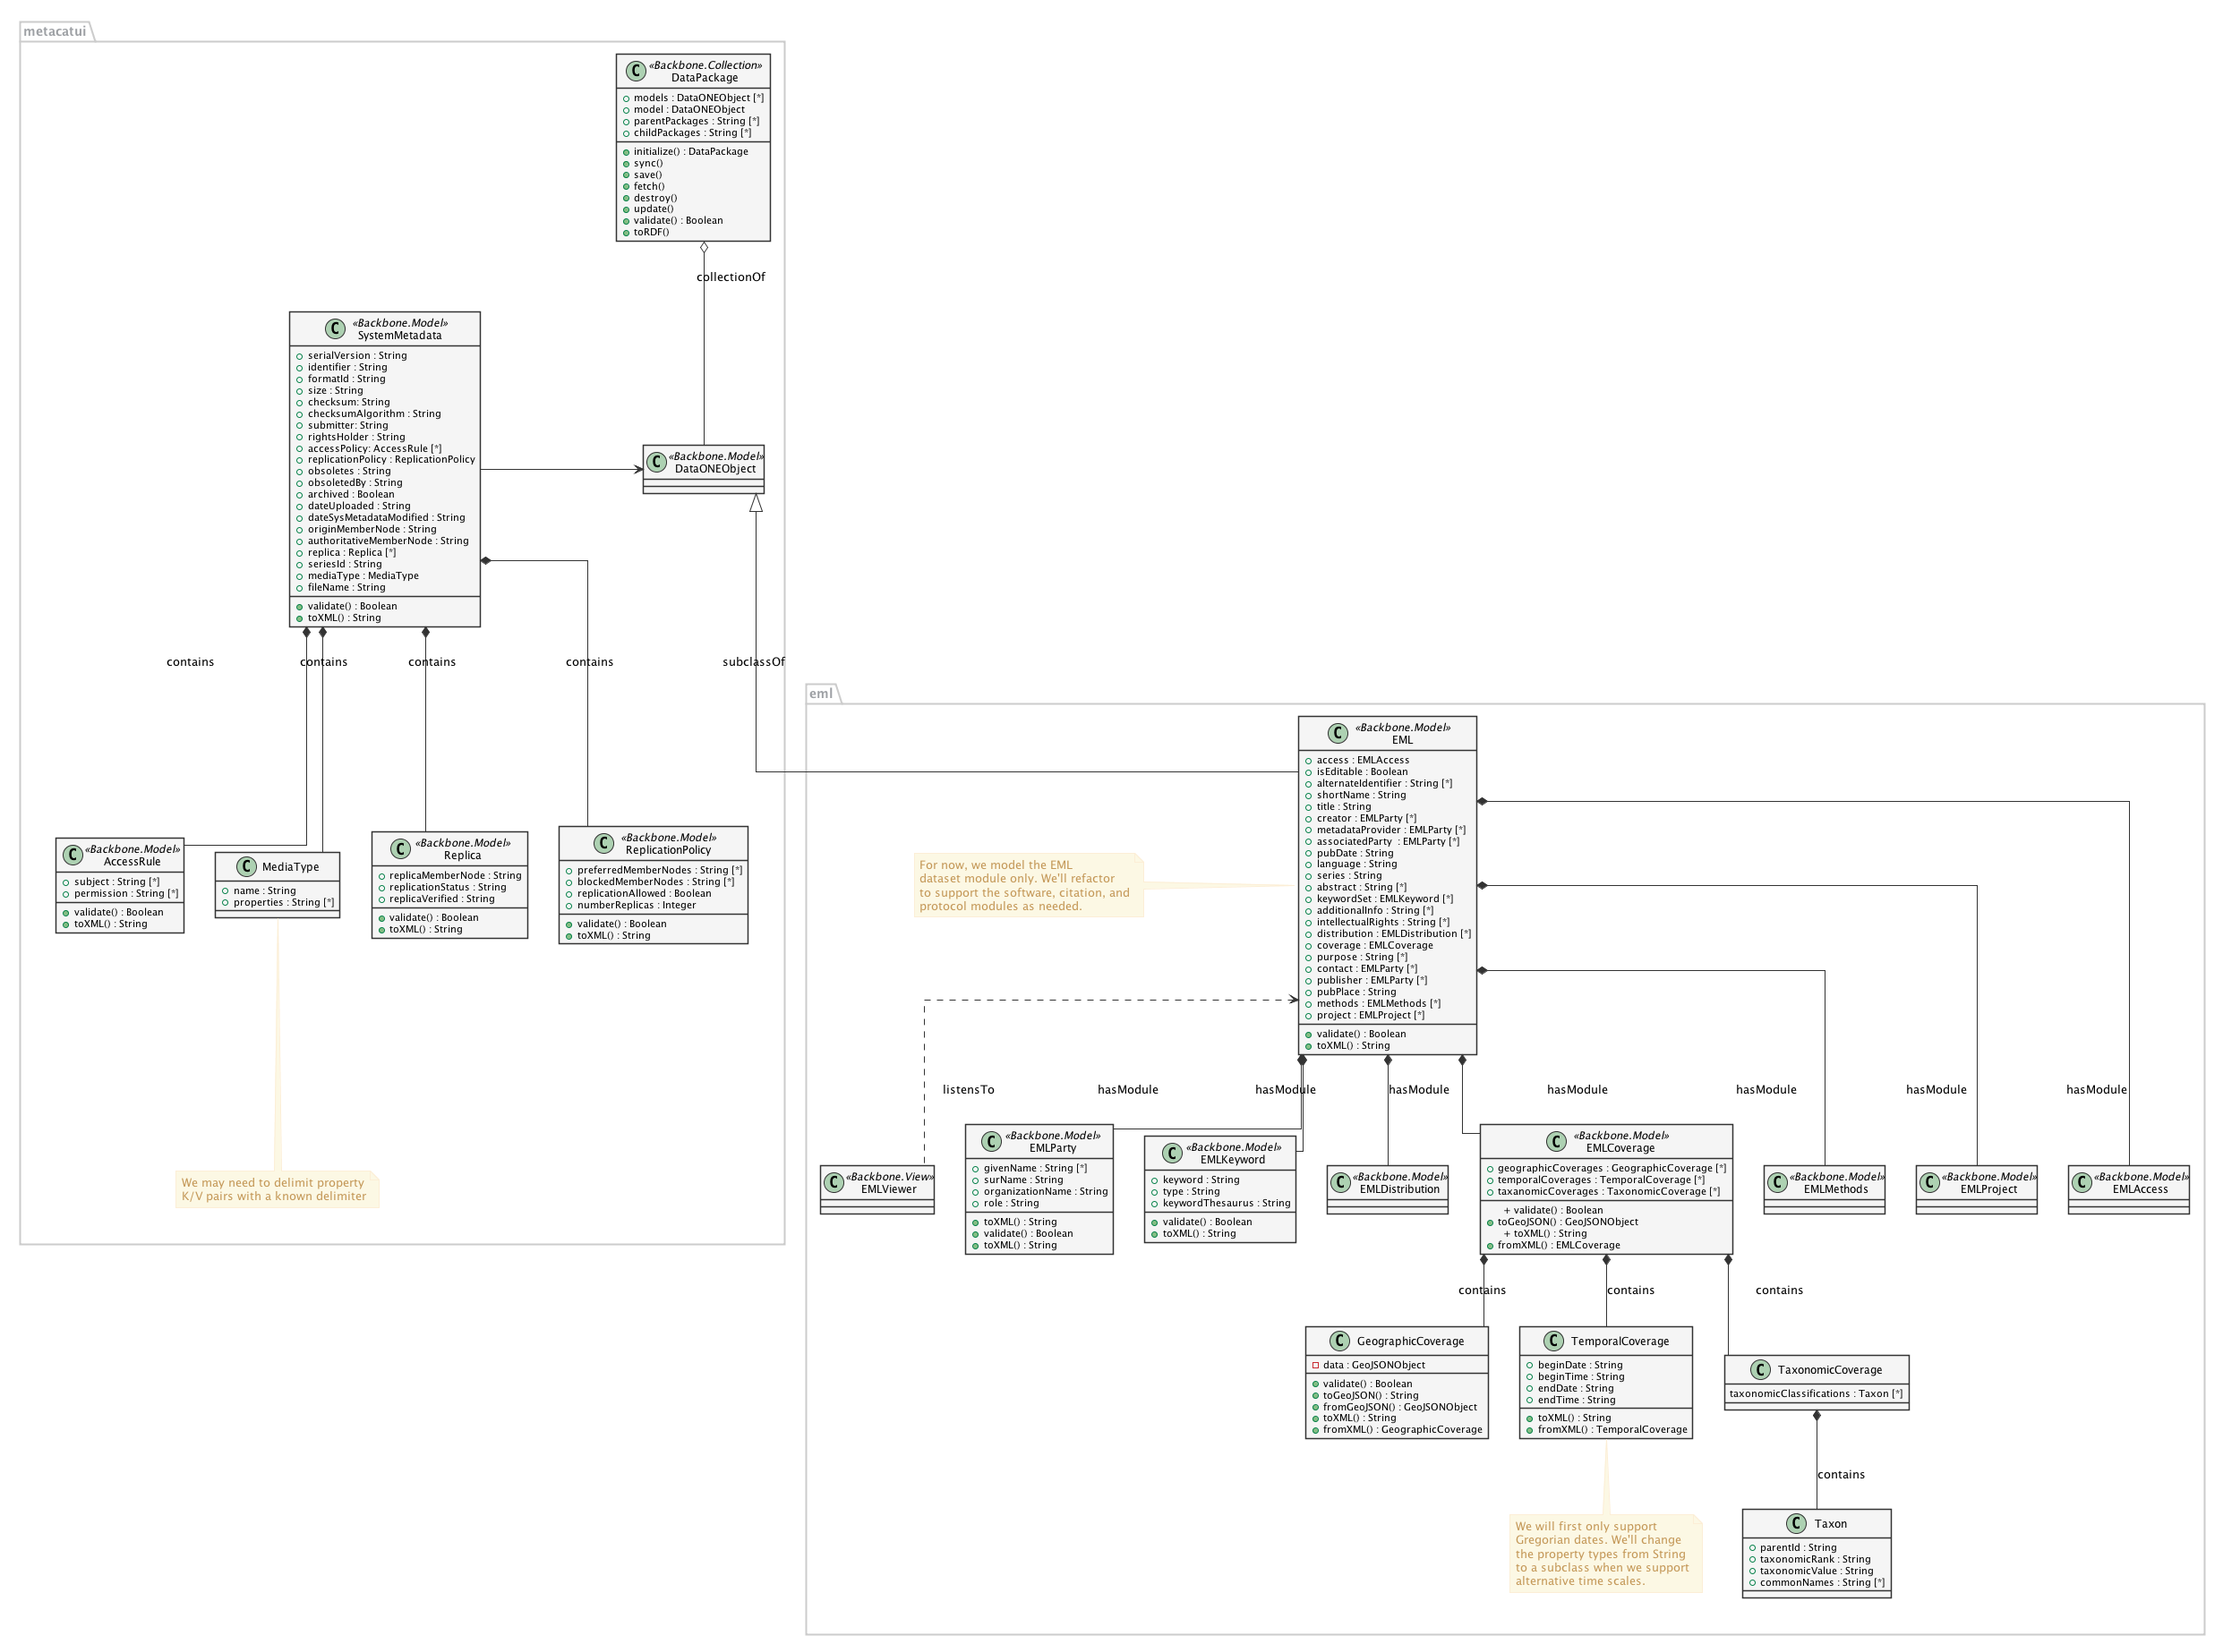
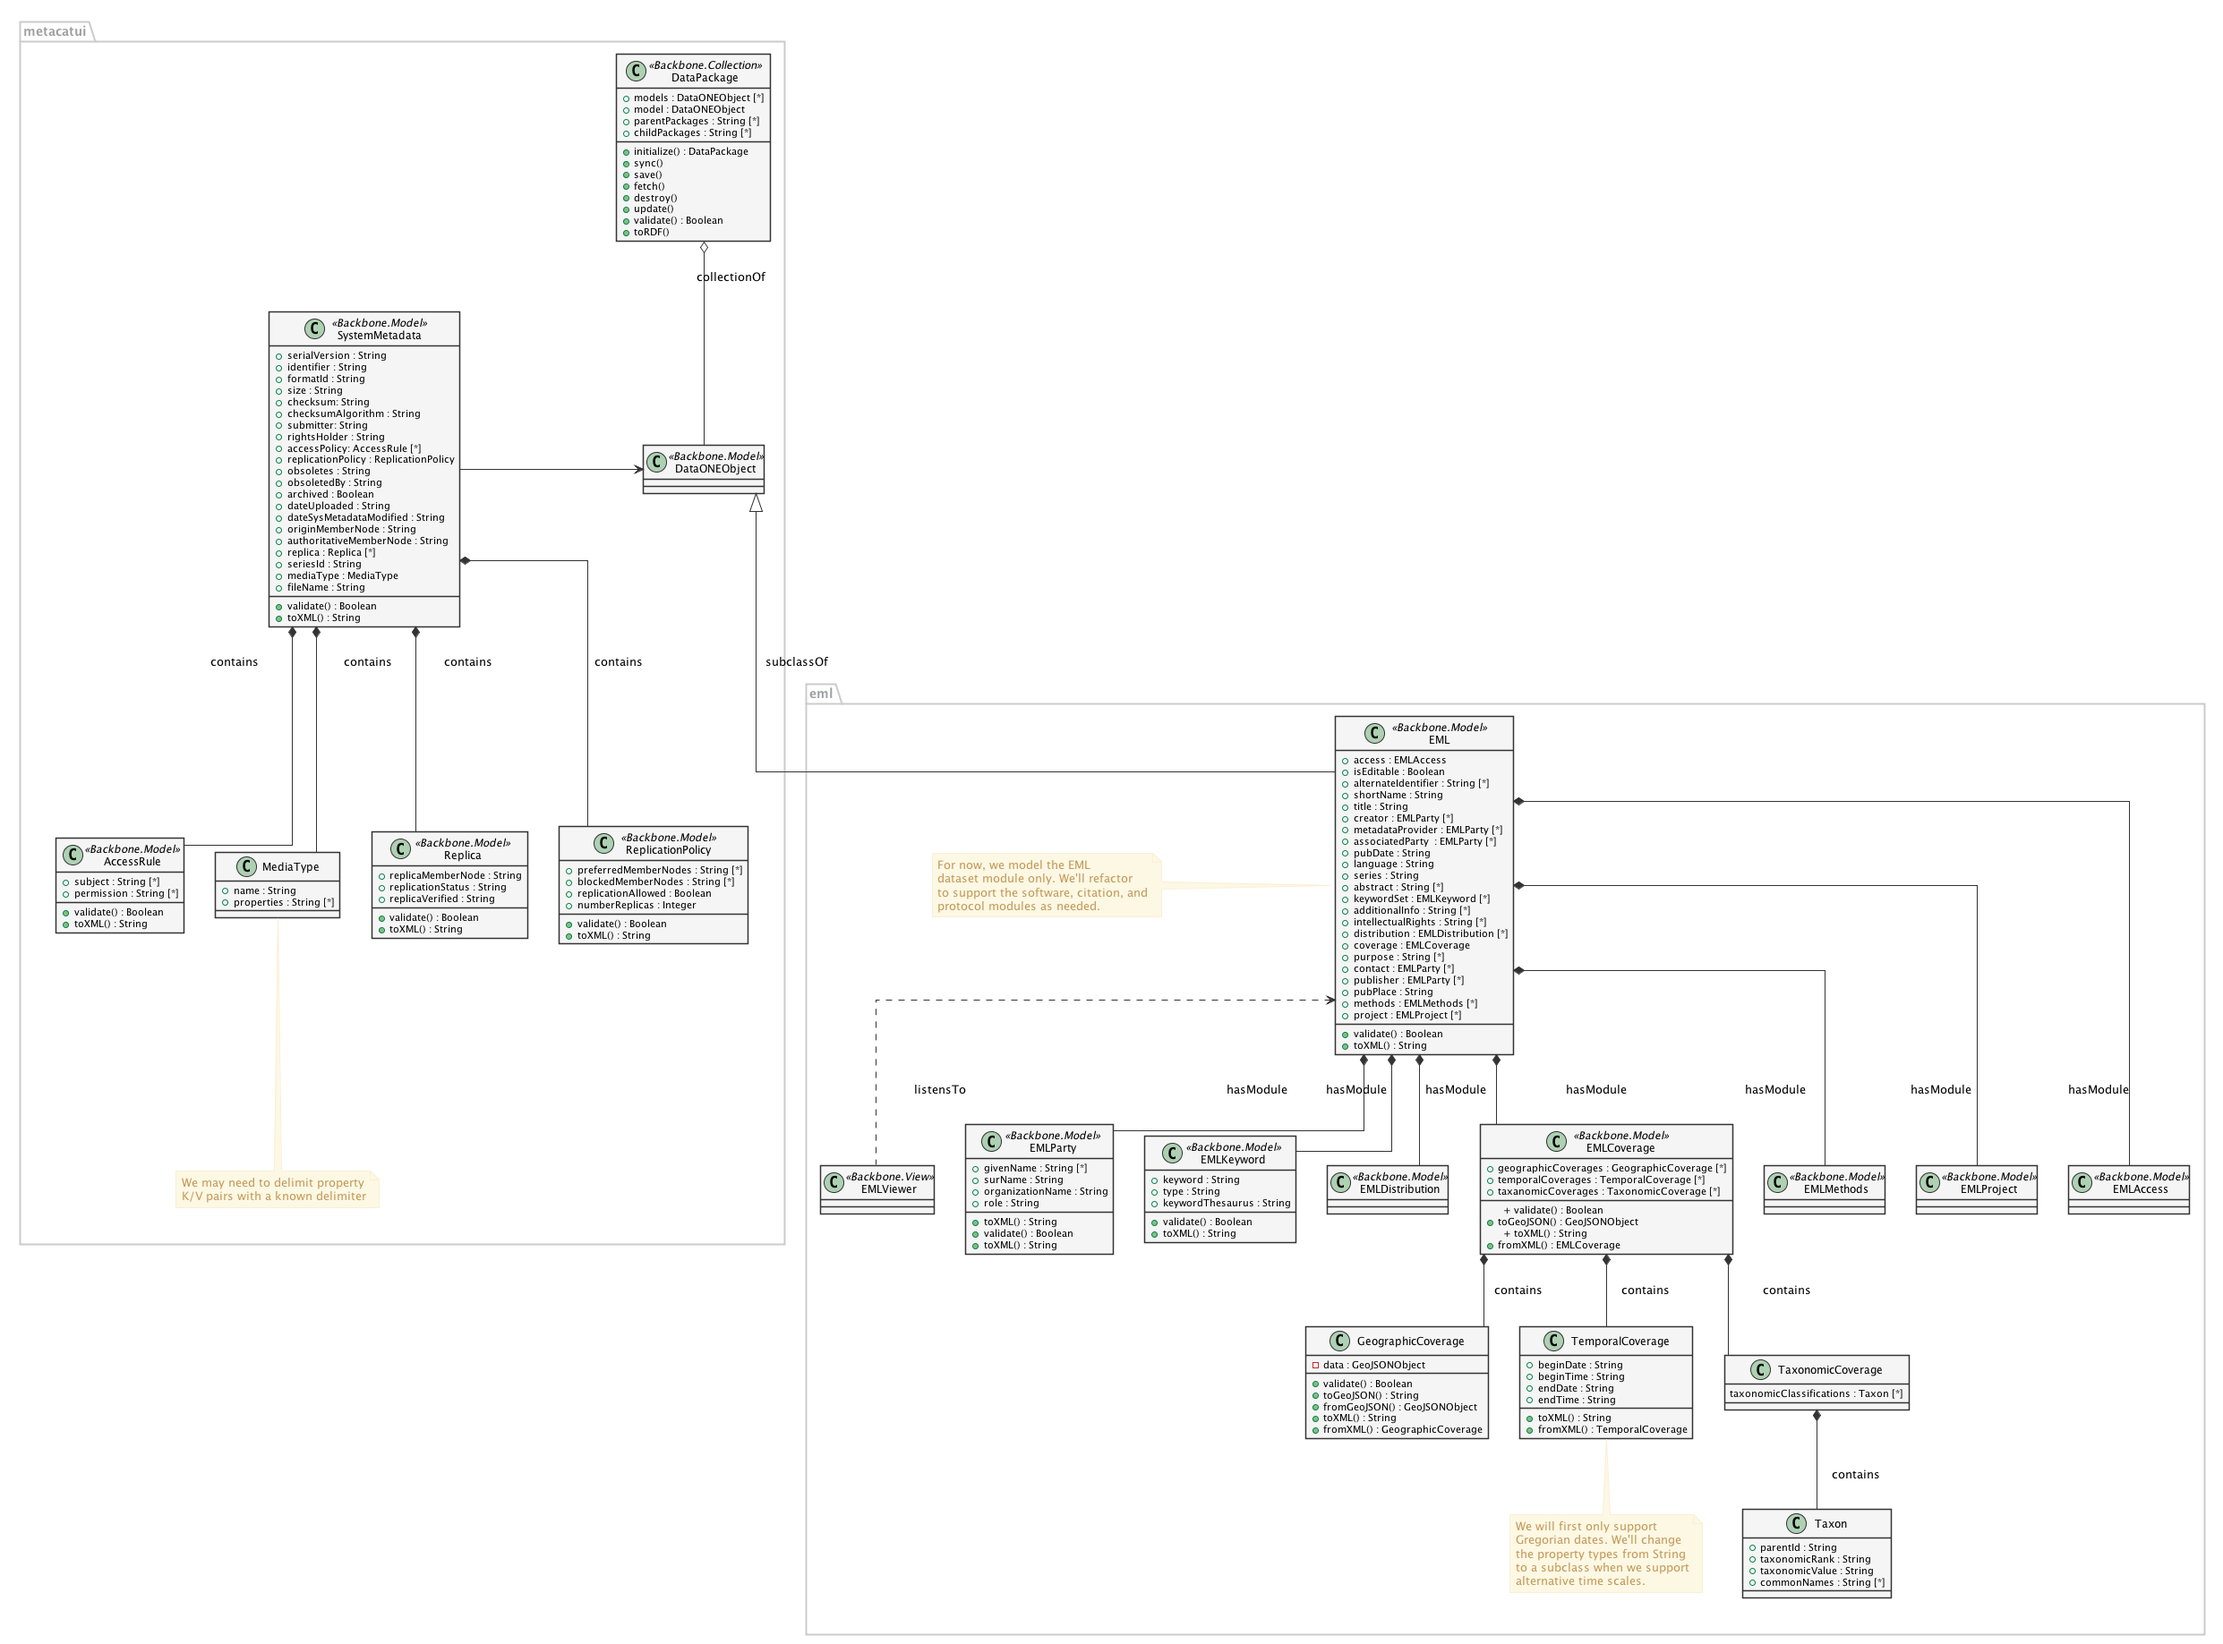
Get relationships to line up a little better.

diff --git a/metacatui/docs/design/editor/editor-class-diagram.rst b/metacatui/docs/design/editor/editor-class-diagram.rst
@@ -236,20 +236,20 @@ Class Diagram
        
      }
      DataPackage o-- DataONEObject : collectionOf
-     DataONEObject <|-- EML : subclassOf
+     DataONEObject <|-- EML : "          subclassOf"
      DataONEObject <-right- SystemMetadata : describes
-     SystemMetadata *-right- AccessRule : contains
-     SystemMetadata *-- ReplicationPolicy : contains
-     SystemMetadata *-- Replica : contains
-     SystemMetadata *-- MediaType : contains
-     EML *-- EMLParty : hasModule
+     SystemMetadata *-right- AccessRule : "                        contains"
+     SystemMetadata *-- ReplicationPolicy : "    contains"
+     SystemMetadata *-- Replica : "  contains"
+     SystemMetadata *-- MediaType : "            contains"
+     EML *-- EMLParty : "                                                    hasModule"
      EML *-- EMLMethods : hasModule
      EML *-- EMLProject : hasModule
      EML *-- EMLCoverage : hasModule
-     EMLCoverage *-- GeographicCoverage : contains
-     EMLCoverage *-- TemporalCoverage : contains
-     EMLCoverage *-- TaxonomicCoverage : contains
-     TaxonomicCoverage *-- Taxon : contains
+     EMLCoverage *-- GeographicCoverage : "                    contains"
+     EMLCoverage *-- TemporalCoverage : "    contains"
+     EMLCoverage *-- TaxonomicCoverage : "contains"
+     TaxonomicCoverage *-- Taxon : "    contains"
      EML *-- EMLDistribution : hasModule
      EML *-- EMLKeyword : hasModule
      EML *-- EMLAccess : hasModule
